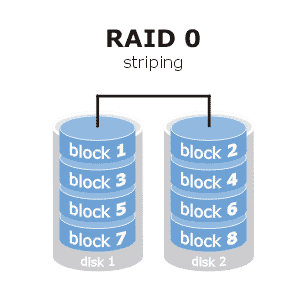
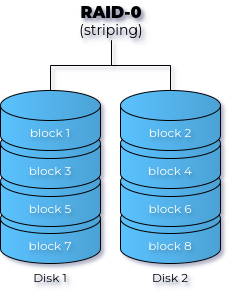
Replace (copyrighted?) images with newly created ones

diff --git a/11-RAID.md b/11-RAID.md
@@ -20,7 +20,7 @@ date: 2024-2025
 
 ## RAID 1 - Mirroring
 
-![RAID 1](assets/raid-1-mirroring.gif)
+![RAID 1](assets/raid-1-mirroring.png)
 
 - Safe against HW failure
 - COMPLETELY unsafe against theft
@@ -94,7 +94,7 @@ block2a:    1010 1011
 
 ## RAID 10 - Mirroring + striping
 
-![RAID 10](assets/raid-10.gif)
+![RAID 10](assets/raid-10.png)
 
 - Is RAID 1 (mirroring) combined with RAID 0 (striping)
 - At least 4 disks needed
